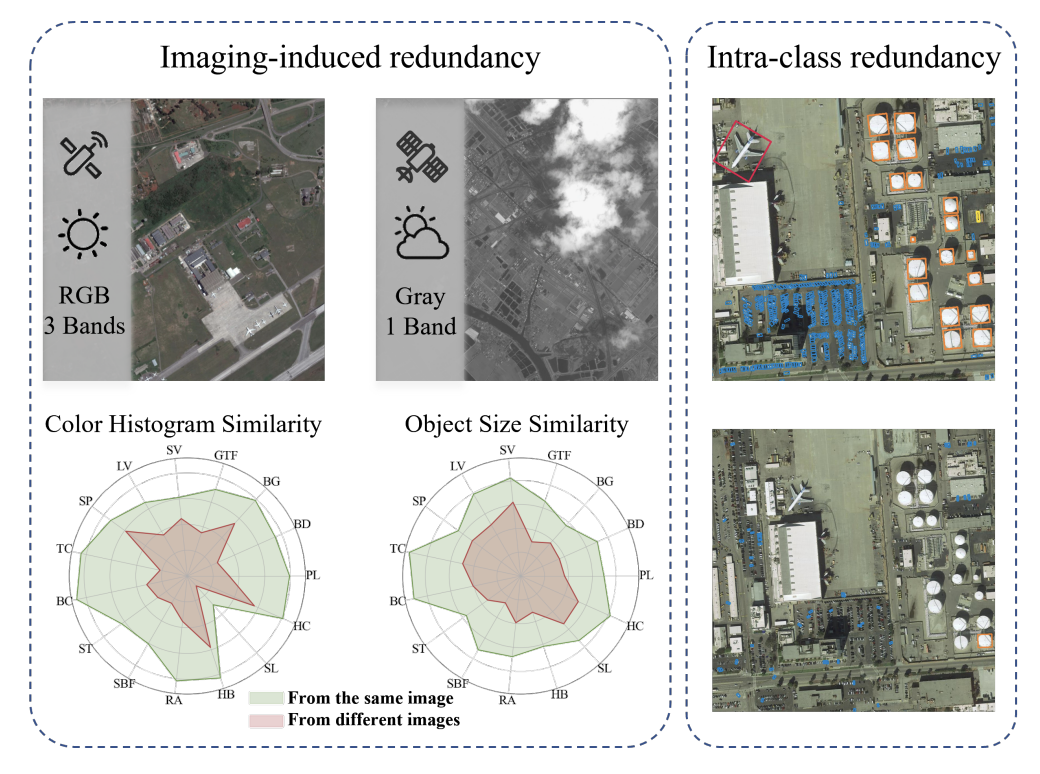
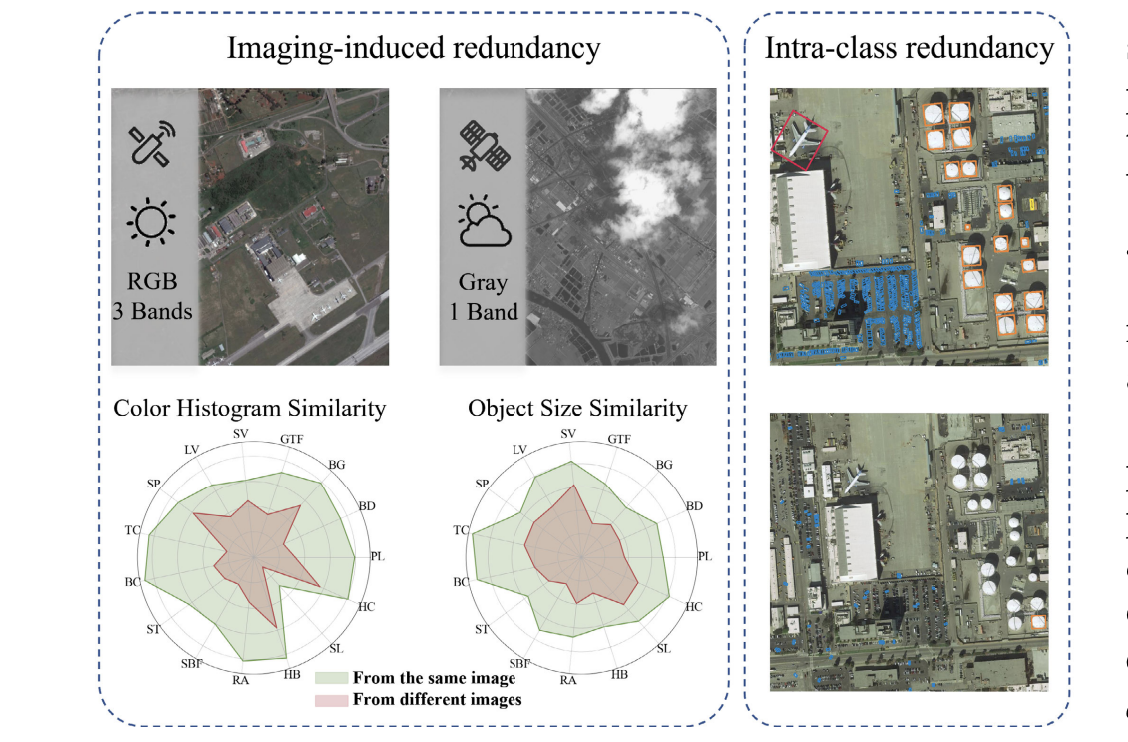
Update some images

diff --git a/index.html b/index.html
@@ -239,6 +239,9 @@
       border: 1px solid var(--border);
       background: #f3f4f6;
     }
+    .pub-thumb--stretch {
+      object-fit: fill;
+    }
     .pub-title {
       font-size: 14.5px;
       font-weight: 600;
@@ -377,10 +380,17 @@
       <summary class="news-year-toggle">2026</summary>
       <div class="news-list">
       <div class="news-item">
+        <span class="news-date">Aug 2026</span>
+        <span>
+        <span class="news-badge badge-conf">ECCV</span>
+        Our work on <a href="https://arxiv.org/abs/2608.20117">Rule-Based Feature Interpretation for Extreme Earth Events</a> is accepted as an oral presentation at the AICC Workshop at <strong>ECCV 2026</strong>.
+        </span>
+      </div>
+      <div class="news-item">
         <span class="news-date">Apr 2026</span>
         <span>
         <span class="news-badge badge-award">Award</span>
-        Our work exploring different ways of <a href="https://github.com/freddy0218/ClimateInformatics2026/blob/main/Extended_Abstract/ID62_Topography-aware%20Temperature%20Forecasting%20in%20Europe.pdf">Topography-aware Weather Forecasting</a> wins the <strong>Second Prize</strong> among all posters at <strong>Climate Informatics 2026</strong>.
+        Our work exploring different ways of <a href="https://github.com/freddy0218/ClimateInformatics2026/blob/main/Extended_Abstract/ID62_Topography-aware%20Temperature%20Forecasting%20in%20Europe.pdf">Topography-aware Weather Forecasting</a> wins the <strong>Best Poster Presentation Award</strong> at <strong>Climate Informatics 2026</strong>.
         </span>
       </div>
       <div class="news-item">
@@ -400,35 +410,35 @@
           <span class="news-date">Nov 2025</span>
           <span>
             <span class="news-badge badge-jour">TPAMI</span>
-            <a href="https://chasel-tsui.github.io/AI-TOD-R/">Oriented Object Detection Dataset, Benchmark, and Method</a> accepted at <strong>IEEE TPAMI</strong>.
+            Our systematic work on <a href="https://chasel-tsui.github.io/AI-TOD-R/">Oriented Object Detection Dataset, Benchmark, and Method</a> is accepted at <strong>IEEE TPAMI</strong>.
           </span>
         </div>
         <div class="news-item">
           <span class="news-date">Jun 2025</span>
           <span>
             <span class="news-badge badge-conf">ICCV</span>
-            <a href="https://gsumbul.github.io/SMARTIES/">SMARTIES: Multi-Sensor Remote Sensing Foundation Model</a> accepted at <strong>ICCV 2025</strong>.
+            Our SMARTIES on <a href="https://gsumbul.github.io/SMARTIES/">Multi-Sensor Remote Sensing Foundation Model</a> is accepted at <strong>ICCV 2025</strong>.
           </span>
         </div>
         <div class="news-item">
           <span class="news-date">May 2025</span>
           <span>
             <span class="news-badge badge-jour">TPAMI</span>
-            <a href="https://ieeexplore.ieee.org/document/10979499">Open World Event-based Object Detection</a> accepted at <strong>IEEE TPAMI</strong>.
+            Our work aiming at <a href="https://ieeexplore.ieee.org/document/10979499">Detecting Every Object with Events</a> is accepted at <strong>IEEE TPAMI</strong>.
           </span>
         </div>
         <div class="news-item">
           <span class="news-date">Apr 2025</span>
           <span>
             <span class="news-badge badge-jour">TGRS</span>
-            <a href="https://ieeexplore.ieee.org/document/10969845">Minimizing Sample Redundancy for Label-efficient Aerial Object Detection</a> accepted at <strong>IEEE TGRS</strong>.
+            Our work discussing how to <a href="https://ieeexplore.ieee.org/document/10969845">Minimize Sample Redundancy for Label-efficient Aerial Object Detection</a> is accepted at <strong>IEEE TGRS</strong>.
           </span>
         </div>
         <div class="news-item">
           <span class="news-date">Feb 2025</span>
           <span>
             <span class="news-badge badge-jour">ISPRS</span>
-            <a href="https://www.sciencedirect.com/science/article/pii/S0924271625000425">Semi-supervised Small Object Detection</a> accepted at <strong>ISPRS JPRS</strong>.
+            Our work on <a href="https://www.sciencedirect.com/science/article/pii/S0924271625000425">Unbiased Semi-supervised Small Object Detection</a> is accepted at <strong>ISPRS JPRS</strong>.
           </span>
         </div>
       </div>
@@ -441,21 +451,21 @@
           <span class="news-date">Jul 2024</span>
           <span>
             <span class="news-badge badge-jour">TGRS</span>
-            Collaborative paper on <a href="https://collebt.github.io/EM-CVGL/">Cross-view Geo-localization without Ground Truth</a> accepted at <strong>IEEE TGRS</strong>.
+            Our paper pushing forward the <a href="https://collebt.github.io/EM-CVGL/">Cross-view Geo-localization without Ground Truth</a> is accepted at <strong>IEEE TGRS</strong>.
           </span>
         </div>
         <div class="news-item">
           <span class="news-date">Jul 2024</span>
           <span>
             <span class="news-badge badge-conf">ECCV</span>
-            <a href="https://chasel-tsui.github.io/ConGeo/">ConGeo: Robust Cross-view Geo-localization</a> accepted at <strong>ECCV 2024</strong>.
+            Our ConGeo paper that learns <a href="https://chasel-tsui.github.io/ConGeo/">Robust Geo-localization Across Ground View Variations</a> is accepted at <strong>ECCV 2024</strong>.
           </span>
         </div>
         <div class="news-item">
           <span class="news-date">Mar 2024</span>
           <span>
             <span class="news-badge badge-jour">ISPRS</span>
-            <a href="https://www.sciencedirect.com/science/article/abs/pii/S0924271624000947">Object Tracking with Distraction</a> accepted at <strong>ISPRS JPRS</strong>.
+            Our work on <a href="https://www.sciencedirect.com/science/article/abs/pii/S0924271624000947">Object Tracking under Distraction</a> is accepted at <strong>ISPRS JPRS</strong>.
           </span>
         </div>
       </div>
@@ -468,35 +478,35 @@
           <span class="news-date">Nov 2023</span>
           <span>
             <span class="news-badge badge-jour">TGRS</span>
-            <a href="https://github.com/chnleixu/A3Track-Code">Aerial Object Tracking</a> accepted at <strong>IEEE TGRS</strong>.
+            Our work on <a href="https://github.com/chnleixu/A3Track-Code">Aerial Object Tracking</a> is accepted at <strong>IEEE TGRS</strong>.
           </span>
         </div>
         <div class="news-item">
           <span class="news-date">Aug 2023</span>
           <span>
             <span class="news-badge badge-jour">ISPRS</span>
-            <a href="https://nnnnerd.github.io/RGBTDronePerson/">Drone-based RGBT Tiny Person Detection</a> accepted at <strong>ISPRS JPRS</strong>.
+            Our work on <a href="https://nnnnerd.github.io/RGBTDronePerson/">Drone-based RGBT Tiny Person Detection</a> is accepted at <strong>ISPRS JPRS</strong>.
           </span>
         </div>
         <div class="news-item">
           <span class="news-date">May 2023</span>
           <span>
             <span class="news-badge badge-award">Award</span>
-            Best Presentation Award at <strong>ICDIP 2023</strong>.
+            I got the Best Presentation Award at <strong>ICDIP 2023</strong>.
           </span>
         </div>
         <div class="news-item">
           <span class="news-date">Apr 2023</span>
           <span>
             <span class="news-badge badge-conf">EPFL</span>
-            Starting a summer internship at <strong>EPFL</strong>.
+            I will be starting a summer internship at <strong>EPFL</strong>, Switzerland.
           </span>
         </div>
         <div class="news-item">
           <span class="news-date">Mar 2023</span>
           <span>
             <span class="news-badge badge-conf">CVPR</span>
-            Oriented Tiny Object Detection accepted at <strong>CVPR 2023</strong>.
+            Our work on Oriented Tiny Object Detection is accepted at <strong>CVPR 2023</strong>.
           </span>
         </div>
       </div>
@@ -509,14 +519,14 @@
           <span class="news-date">Jul 2022</span>
           <span>
             <span class="news-badge badge-conf">ECCV</span>
-            <a href="https://www.ecva.net/papers/eccv_2022/papers_ECCV/html/3138_ECCV_2022_paper.php">RFLA: Gaussian Receptive Field-based Label Assignment for Tiny Object Detection</a> accepted at <strong>ECCV 2022</strong>.
+            Our work on <a href="https://www.ecva.net/papers/eccv_2022/papers_ECCV/html/3138_ECCV_2022_paper.php">RFLA: Gaussian Receptive Field-based Label Assignment for Tiny Object Detection</a> is accepted at <strong>ECCV 2022</strong>.
           </span>
         </div>
         <div class="news-item">
           <span class="news-date">Jun 2022</span>
           <span>
             <span class="news-badge badge-jour">ISPRS</span>
-            <a href="https://www.sciencedirect.com/science/article/abs/pii/S0924271622001599">Tiny Object Detection Dataset, Benchmark and Method</a> accepted at <strong>ISPRS JPRS</strong>.
+            Our work on the <a href="https://www.sciencedirect.com/science/article/abs/pii/S0924271622001599">Tiny Object Detection Dataset, Benchmark and Method</a> is accepted at <strong>ISPRS JPRS</strong>.
           </span>
         </div>
       </div>
@@ -529,7 +539,7 @@
           <span class="news-date">Apr 2021</span>
           <span>
             <span class="news-badge badge-conf">CVPRW</span>
-            <a href="https://openaccess.thecvf.com/content/CVPR2021W/EarthVision/html/Xu_Dot_Distance_for_Tiny_Object_Detection_in_Aerial_Images_CVPRW_2021_paper.html">Tiny Object Detection in Aerial Images</a> accepted at <strong>CVPR 2021 Workshop</strong>.
+            Our work on <a href="https://openaccess.thecvf.com/content/CVPR2021W/EarthVision/html/Xu_Dot_Distance_for_Tiny_Object_Detection_in_Aerial_Images_CVPRW_2021_paper.html">Tiny Object Detection in Aerial Images</a> is accepted at <strong>CVPR 2021 Workshop</strong>.
           </span>
         </div>
       </div>
@@ -600,7 +610,7 @@
     </div>
 
     <div class="pub-item">
-      <img class="pub-thumb" src="images/rfla.PNG" alt="RFLA" />
+      <img class="pub-thumb pub-thumb--stretch" src="images/rfla.PNG" alt="RFLA" />
       <div>
         <div class="pub-title">RFLA: Gaussian Receptive Field based Label Assignment for Tiny Object Detection</div>
         <div class="pub-authors"><strong>Chang Xu</strong>, Jinwang Wang, Wen Yang<sup>#</sup>, Huai Yu, Lei Yu, Gui-song Xia</div>
@@ -626,7 +636,7 @@
     </div>
 
     <div class="pub-item">
-      <img class="pub-thumb" src="images/minimizing.png" alt="Minimizing Sample Redundancy" />
+      <img class="pub-thumb pub-thumb--stretch" src="images/minimizing.png" alt="Minimizing Sample Redundancy" />
       <div>
         <div class="pub-title">Minimizing Sample Redundancy for Label-efficient Object Detection in Aerial Images</div>
         <div class="pub-authors">Ruixiang Zhang*, <strong>Chang Xu</strong>*, Haoran Zhu, Fang Xu, Wen Yang<sup>#</sup>, Haijian Zhang, Gui-Song Xia</div>
@@ -642,7 +652,7 @@
     <div class="pub-category-title">Multi-modal &amp; Cross-modal Learning</div>
 
     <div class="pub-item">
-      <img class="pub-thumb" src="images/DEOE.PNG" alt="DEOE" />
+      <img class="pub-thumb pub-thumb--stretch" src="images/DEOE.PNG" alt="DEOE" />
       <div>
         <div class="pub-title">Detecting Every Object from Events</div>
         <div class="pub-authors">Haitian Zhang, <strong>Chang Xu</strong>, Xinya Wang, Bingde Liu, Guang Hua, Lei Yu, Wen Yang<sup>#</sup></div>
